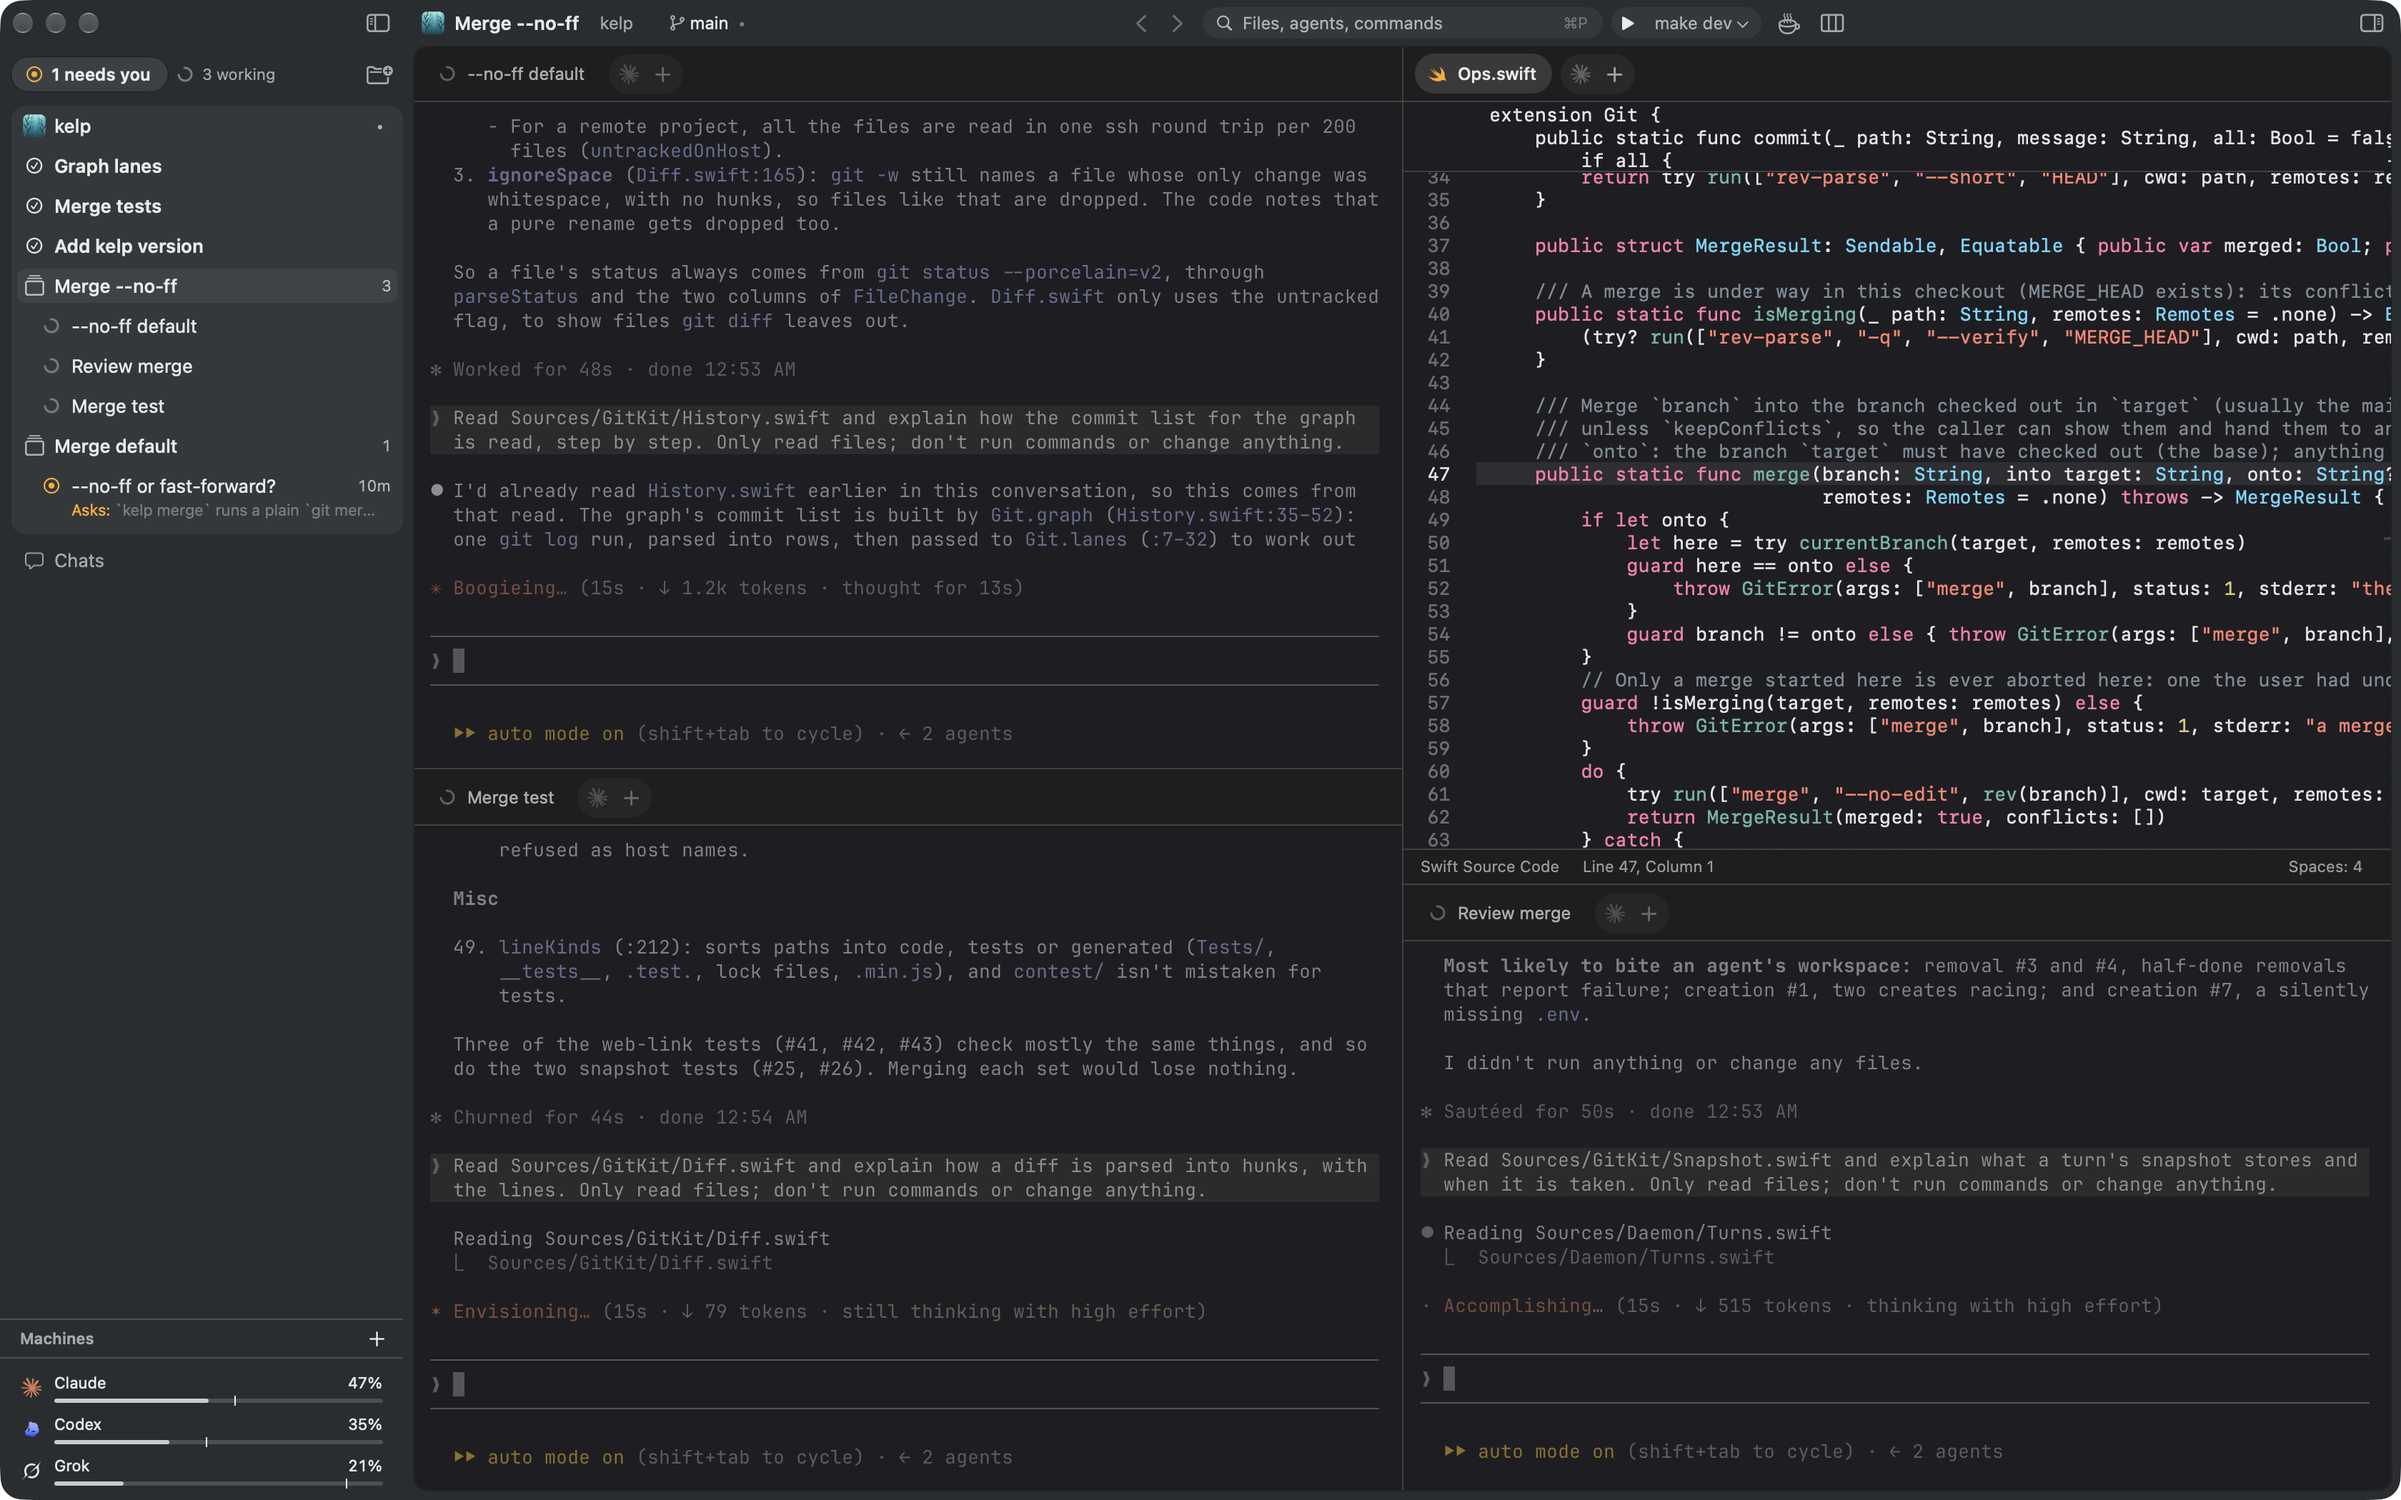
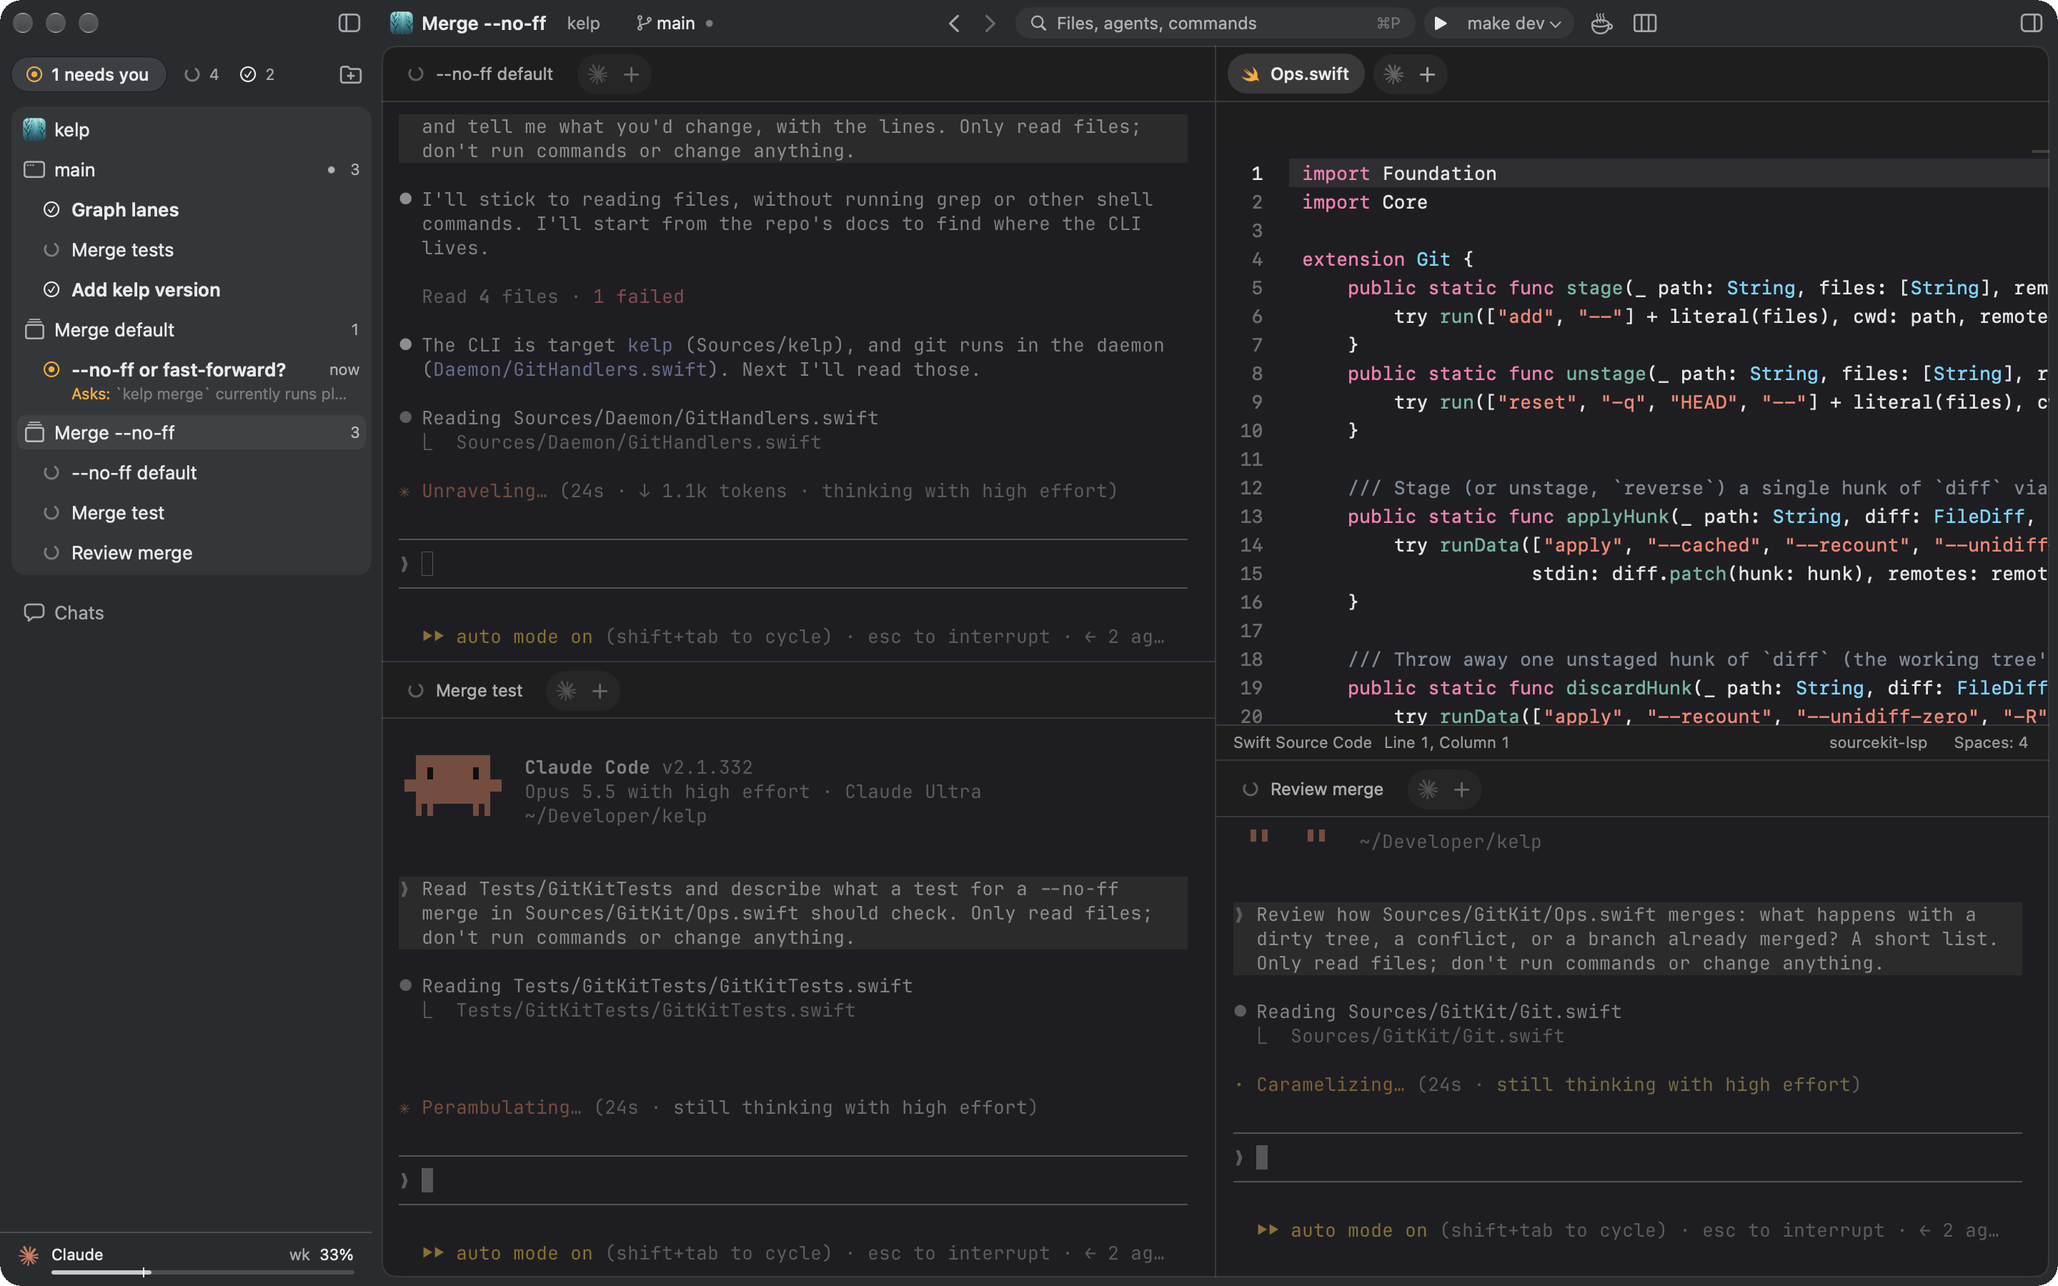
docs(readme): a demo loop of three agents at work under the download button, install right after it, and Kelp next to Cursor, Zed and Warp in a table (sources in docs/comparison.md); screenshots of 0.20

diff --git a/docs/comparison.md b/docs/comparison.md
@@ -1,6 +1,6 @@
-# Kelp next to Orca, Herdr, cmux, Paradev and Zed
+# Kelp next to Cursor, Warp, Zed, Orca, Herdr, cmux and Paradev
 
-Kelp's author wrote this page. It tries to be fair, and it will go out of date, because all six apps ship every week.
+Kelp's author wrote this page. It tries to be fair, and it will go out of date, because all these apps ship every week.
 Each fact carries the date it was read and a link to where it was read. If something here is wrong or old, open an
 issue or a pull request.
 
@@ -43,6 +43,31 @@ None of the other apps was run for this page, except for the weight table, which
 | GitHub stars | 4 | 115,847 | 48,170 (app: 1,995) | 28,705 | 15,944 | 92,748 |
 
 "Not checked" means this page doesn't know. It doesn't mean "no".
+
+## Cursor and Warp
+
+Read on 26 November 2026, from each one's docs, pricing page and repository. The README's
+[table](../README.md#kelp-cursor-zed-and-warp) comes from these and from Zed's rows above, which were checked again
+the same day.
+
+**Cursor** is a VS Code-based editor (it runs VS Code extensions from Open VSX) for macOS, Windows and Linux
+[^cursor-start]. You sign in to use it [^cursor-start]. Its Agents Window, since Cursor 3, runs several of Cursor's own
+agents at once, in worktrees or in Cursor's cloud [^cursor-agents]. Its CLI speaks ACP as a server for other editors,
+and it can load Claude Code's hooks. No documented way to run Claude Code, Codex or Gemini CLI as sessions of their own
+was found [^cursor-acp]. Plans come with a usage pool, and other vendors' models are billed at API prices
+[^cursor-pricing]. Its privacy policy says it collects usage data [^cursor-privacy]. No source license was found.
+
+**Warp** is a terminal for macOS, Windows and Linux, written in Rust. Its client has been open source since 27 April
+2026, under AGPL-3.0 with MIT UI crates [^warp-oss]. Signing in is optional [^warp-install]. It notices CLI agents in
+its terminal (Claude Code, Codex, Gemini CLI, OpenCode, Amp and others) and shows their state in its vertical tabs.
+Notifications when Claude Code, Codex or OpenCode wait for input need a one-time setup [^warp-cli]. Its Code Review
+panel reverts hunks and sends line comments to Warp's agent, Claude Code or Codex [^warp-review]. Its editor has
+language servers for Rust, Go, Python, TypeScript and JavaScript, and C and C++ [^warp-lsp]. Telemetry and crash
+reports are on by default and can be turned off [^warp-settings].
+
+**Zed** since 5 November: Terminal Threads (from 20 May 2026) run the plain `claude` or `codex` CLI, each with a status
+mark in the sidebar [^zed-parallel]. Signing in is not required [^zed-auth], and telemetry is on by default and can be
+turned off [^zed-telemetry].
 
 ## Weight
 
@@ -174,3 +199,17 @@ Checked in Kelp's code on 5 November 2026:
 [^zed-review]: Zed's Git diff has **Send Review to Agent (N)** for comments left on hunks: `crates/git_ui/src/project_diff.rs` in [zed-industries/zed](https://github.com/zed-industries/zed), read 2026-11-02; a request for PR-style review, [zed#59157](https://github.com/zed-industries/zed/issues/59157), was open then.
 [^zed-external]: [Zed docs, External Agents](https://github.com/zed-industries/zed/blob/main/docs/src/ai/external-agents.md), read 2026-11-05: Claude, Codex, OpenCode and others through the Agent Client Protocol.
 [^review-with]: Kelp `Sources/Builtins/Git/DiffReviewWith.swift` and `DiffFindings.swift`, commits 69188e78 and af6057b4 on `main`, 2026-11-05.
+[^cursor-start]: [Cursor quickstart](https://cursor.com/docs/get-started/quickstart) ("Open the app and sign in") and [extensions](https://cursor.com/help/customization/extensions), read 2026-11-26.
+[^cursor-agents]: [Cursor docs, Agents Window](https://cursor.com/docs/agent/agents-window) and [worktrees](https://cursor.com/docs/configuration/worktrees), read 2026-11-26.
+[^cursor-acp]: [Cursor CLI, ACP](https://cursor.com/docs/cli/acp) and [third-party hooks](https://cursor.com/docs/agent/third-party-hooks), read 2026-11-26.
+[^cursor-pricing]: [Cursor pricing](https://cursor.com/pricing), read 2026-11-26.
+[^cursor-privacy]: [Cursor privacy policy](https://cursor.com/privacy) and [Privacy Mode](https://cursor.com/help/security-and-privacy/privacy), read 2026-11-26.
+[^warp-oss]: [Warp changelog 2026](https://docs.warp.dev/changelog/2026) ("Warp is now open source", 2026-04-27) and the [warp repository](https://github.com/warpdotdev/warp), read 2026-11-26.
+[^warp-install]: [Warp installation and setup](https://docs.warp.dev/getting-started/quickstart/installation-and-setup), read 2026-11-26.
+[^warp-cli]: [Warp docs, CLI agents](https://docs.warp.dev/agents/cli-agents/overview), read 2026-11-26.
+[^warp-review]: [Warp docs, Code Review](https://docs.warp.dev/code/code-review) and [interactive code review](https://docs.warp.dev/agents/local-agents/interactive-code-review), read 2026-11-26.
+[^warp-lsp]: [Warp docs, language servers](https://docs.warp.dev/code/code-editor/language-server-protocol), read 2026-11-26.
+[^warp-settings]: [Warp settings](https://docs.warp.dev/terminal/settings/all-settings) (`telemetry_enabled`, `crash_reporting_enabled`) and [privacy](https://docs.warp.dev/support-and-community/privacy-and-security/privacy), read 2026-11-26.
+[^zed-parallel]: [Zed docs, parallel agents](https://zed.dev/docs/ai/parallel-agents) and [Terminal Threads](https://zed.dev/blog/terminal-threads), read 2026-11-26.
+[^zed-auth]: [Zed docs, authentication](https://zed.dev/docs/authentication), read 2026-11-26.
+[^zed-telemetry]: [Zed docs, telemetry](https://zed.dev/docs/telemetry), read 2026-11-26.

diff --git a/README.md b/README.md
@@ -14,7 +14,22 @@ See who needs you at a glance, and read every change right beside the agent that
 [![CI](https://github.com/nikiomori/kelp/actions/workflows/ci.yml/badge.svg)](https://github.com/nikiomori/kelp/actions/workflows/ci.yml)
 [![License: MIT](https://img.shields.io/badge/license-MIT-1F8A96.svg)](LICENSE)
 
+<img src="docs/screenshots/demo.webp" alt="Three Claude Code agents get their prompts at once beside the file they read. Their rows in the sidebar turn from working to done, and the one that stops to ask turns orange with its question on its row" />
+
+<sub>Three Claude Code agents at work, sped up about eight times.</sub>
+
 </div>
+
+## Install
+
+Download [`Kelp.dmg`](https://github.com/nikiomori/kelp/releases/latest/download/Kelp.dmg) and drag Kelp to
+Applications, or with Homebrew:
+
+```sh
+brew install --cask nikiomori/tap/kelp
+```
+
+Open it and press <kbd>⌘N</kbd> for a chat with an agent you already use. Kelp updates itself; [more on installing](#more-on-installing).
 
 ## Why Kelp
 
@@ -80,6 +95,26 @@ on the lines; the ones you tick go back to the first agent in one message.
 
 Commit, push and open a pull request from Source Control, which works as in VS Code, branch graph included. CI shows on
 the branch, and **Fix with Agent** hands a failed check to an agent along with its log.
+
+## Kelp, Cursor, Zed and Warp
+
+| | Kelp | Cursor | Zed | Warp |
+| --- | --- | --- | --- | --- |
+| What it is | A Mac app built around CLI agents, with an editor and git | A VS Code-based editor with its own agent | A code editor with an agent panel | A terminal with agents |
+| Agents | Any CLI agent: the 22 above, or any command | Cursor's own agent | Zed's agent, ACP agents, and the `claude` or `codex` CLI in Terminal Threads | Warp's agent, and CLI agents in its terminal |
+| Runs on your Claude or ChatGPT plan | Yes: each agent is the real CLI | No: Cursor's plans, other vendors' models at API prices | Yes, for external agents | Yes, for CLI agents |
+| Shows which agent needs you | Yes, for any agent, with nothing to set up | For its own agent | A status mark on each thread | In its vertical tabs. Notifications for Claude Code, Codex and OpenCode after a one-time setup |
+| Comment on a diff line, sent back to the agent | Yes, and a second agent can review the first | Not checked | Yes, for ACP agents | Yes, for Warp's agent, Claude Code and Codex |
+| Account | None | Sign-in required | Optional | Optional (an anonymous ID otherwise) |
+| Telemetry | None | Collects usage data | On by default, can be turned off | On by default, can be turned off |
+| Built with, runs on | Swift and AppKit, macOS only | VS Code base; macOS, Windows, Linux | Rust; macOS, Windows, Linux | Rust; macOS, Windows, Linux |
+| Source | MIT | Proprietary | GPL-3.0 | AGPL-3.0 |
+
+<sub>Read on 26 November 2026 from each one's own docs, pricing and repository. Sources, and Kelp next to Orca, Herdr,
+cmux and Paradev: [docs/comparison.md](docs/comparison.md). If something here is wrong or old, open an issue.</sub>
+
+Where they're ahead: all three run on Windows and Linux, Zed is the more mature editor and has collaboration, and Cursor
+and Warp run agents in their cloud too.
 
 ## Also in the box
 
@@ -177,7 +212,7 @@ running; each number is the median of the three, or the range where they differe
 
 </details>
 
-## Install
+## More on installing
 
 Requires macOS 14+. Download [`Kelp.dmg`](https://github.com/nikiomori/kelp/releases/latest/download/Kelp.dmg) and
 drag Kelp to Applications; it updates itself (Kelp › Check for Updates…). Keep it allowed in System Settings › General ›
@@ -275,5 +310,5 @@ Signing, channels and releases: [docs/releasing.md](docs/releasing.md).
 
 ## More
 
-[Architecture](docs/architecture.md) · [Kelp next to Orca, Herdr, cmux, Paradev and Zed](docs/comparison.md) · [Contributing](CONTRIBUTING.md) · [Security](SECURITY.md) ·
+[Architecture](docs/architecture.md) · [Kelp next to Cursor, Warp, Zed, Orca, Herdr, cmux and Paradev](docs/comparison.md) · [Contributing](CONTRIBUTING.md) · [Security](SECURITY.md) ·
 [Code of Conduct](CODE_OF_CONDUCT.md) · MIT [license](LICENSE)
